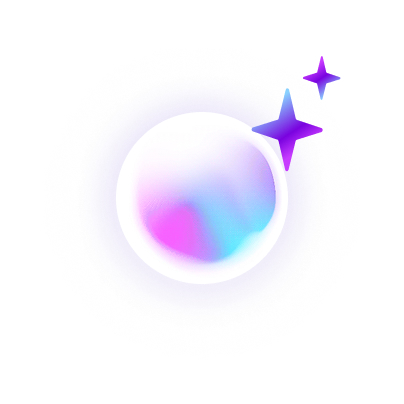
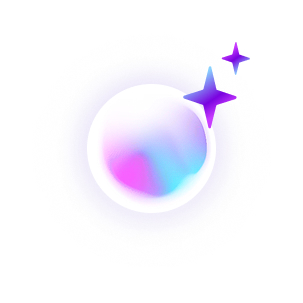
widget alignment

Changed region(s): [[0.5941, 0.1188, 0.8614, 0.4455]]

diff --git a/components/askSky/vapi-widget.js b/components/askSky/vapi-widget.js
@@ -24,17 +24,17 @@ export function VapiWidget({
   const [loadingMessage, setloadingMessage] = useState("");
 
 
- useEffect(() => {
-  if (loading) {
-    setloadingMessage("Sky is booting up...");
+  useEffect(() => {
+    if (loading) {
+      setloadingMessage("Sky is booting up...");
 
-    const timer = setTimeout(() => {
-      setloadingMessage("...getting coffee...");
-    }, 3000);
+      const timer = setTimeout(() => {
+        setloadingMessage("...getting coffee...");
+      }, 3000);
 
-    return () => clearTimeout(timer);
-  }
-}, [loading]);
+      return () => clearTimeout(timer);
+    }
+  }, [loading]);
 
 
   useEffect(() => {
@@ -221,20 +221,14 @@ export function VapiWidget({
           </div>
         </button>
       ) : (
-        <div className="flex flex-col gap-3 overflow-none bg-transparent">
-          <div className="w-full flex flex-row items-center justify-end">
+        <div className="flex flex-col h-full gap-3 overflow-none bg-transparent">
+          <div className="w-full flex flex-row items-center">
             <div
-              // className={
-              //   "w-72 h-80 rounded-lg bg-white overflow-hidden p-6 border-black/10 mb-6 transition-all duration-300" +
-              //     isEmbeded
-              //     ? ""
-              //     : "shadow-md border"
-              // }
               style={{
                 backgroundColor: "white",
                 padding: 6,
+                width: "350px",
                 height: "320px",
-                width: "288px",
                 border: !isEmbeded ? "2px solid #00000010" : "",
                 borderRadius: 12,
                 boxShadow: !isEmbeded ? "0 2px 8px rgba(0,0,0,0.1)" : "none",
@@ -242,24 +236,7 @@ export function VapiWidget({
             >
               <div className="h-full w-full flex flex-col items-center justify-center ">
                 <div className="h-[200px] w-[200px] flex flex-col items-center justify-between mb-8">
-                  {/* 
-            <div
-                  className="relative w-[150px] h-[150px] mx-auto"
-                  style={{
-                    backgroundImage: "url('/assets/shade.png')",
-                    backgroundPosition: "center",
-                    backgroundSize: "150%",
-                    backgroundRepeat: "no-repeat",
-                    borderRadius: "50%"
-                  }}
-                >
-                  <img
-                    src="/agentXOrb.gif"
-                    alt="AgentX Orb"
-                    className="absolute top-1/2 left-1/2 -translate-x-1/2 -translate-y-1/2 w-[120px] h-[120px] rounded-full bg-white object-cover"
-                  />
-                </div>
-            */}
+                  
                   <div className="relative w-[125px] h-[150px] mx-auto mt-4">
                     {/* Gradient Glow Border */}
                     <div className="absolute inset-0 rounded-full bg-gradient-to-br from-pink-400 via-purple-400 to-blue-400 blur-2xl opacity-70"></div>
@@ -322,10 +299,7 @@ export function VapiWidget({
           <div className="flex flex-row items-center justify-end">
             <button
               onClick={handleClose}
-              // className={
-              //   "self-end size-11 flex items-center justify-center border border-black/5 shadow-sm rounded-full transition-transform hover:-translate-y-1 bg-white"
-              //   //open ? "opacity-100 z-10" : "opacity-0 -z-10"
-              // }
+             
               className="w-12 h-12 flex flex-row items-center justify-center border-2 rounded-full bg-white"
             >
               <Image

diff --git a/components/animations/DashboardSlider.js b/components/animations/DashboardSlider.js
@@ -305,7 +305,7 @@ const DashboardSlider = ({
             animate={{ opacity: 1, x: 0 }}
             exit={{ opacity: 0, x: "100%" }}
             transition={{ duration: 0.4 }}
-            className="shadow-lg flex flex-row items-center gap-2"
+            // className="shadow-lg flex flex-row items-center gap-2"
             style={{
               position: "fixed",
               bottom: 30,
@@ -313,10 +313,10 @@ const DashboardSlider = ({
               zIndex: 999,
 
               border: "none",
-              borderRadius: "9999px",
+             
               fontSize: "16px",
               cursor: "pointer",
-              boxShadow: "0 4px 10px rgba(0,0,0,0.15)",
+              
               outline: "none",
             }}
           >
@@ -324,12 +324,22 @@ const DashboardSlider = ({
               className="outline-none border-none"
               onClick={handleReopen}
             >
+              {/* <Image
+                src={"/otherAssets/getHelpBtn.jpg"}
+                height={58}
+                width={216}
+                alt="*"
+              /> */}
+
               <div className="flex flex-row items-center pe-4 ps-4 bg-white py-1 rounded-full shadow-md">
                 <Image
                   src={"/otherAssets/embedGetHelp.jpg"}
-                  height={57}
+                  height={56}
                   width={57}
                   alt="*"
+                  style={{
+                    borderWidth:1
+                  }}
                 />
 
                 <p className=" text-[16px] font-bold text-purple cursor-pointer">
